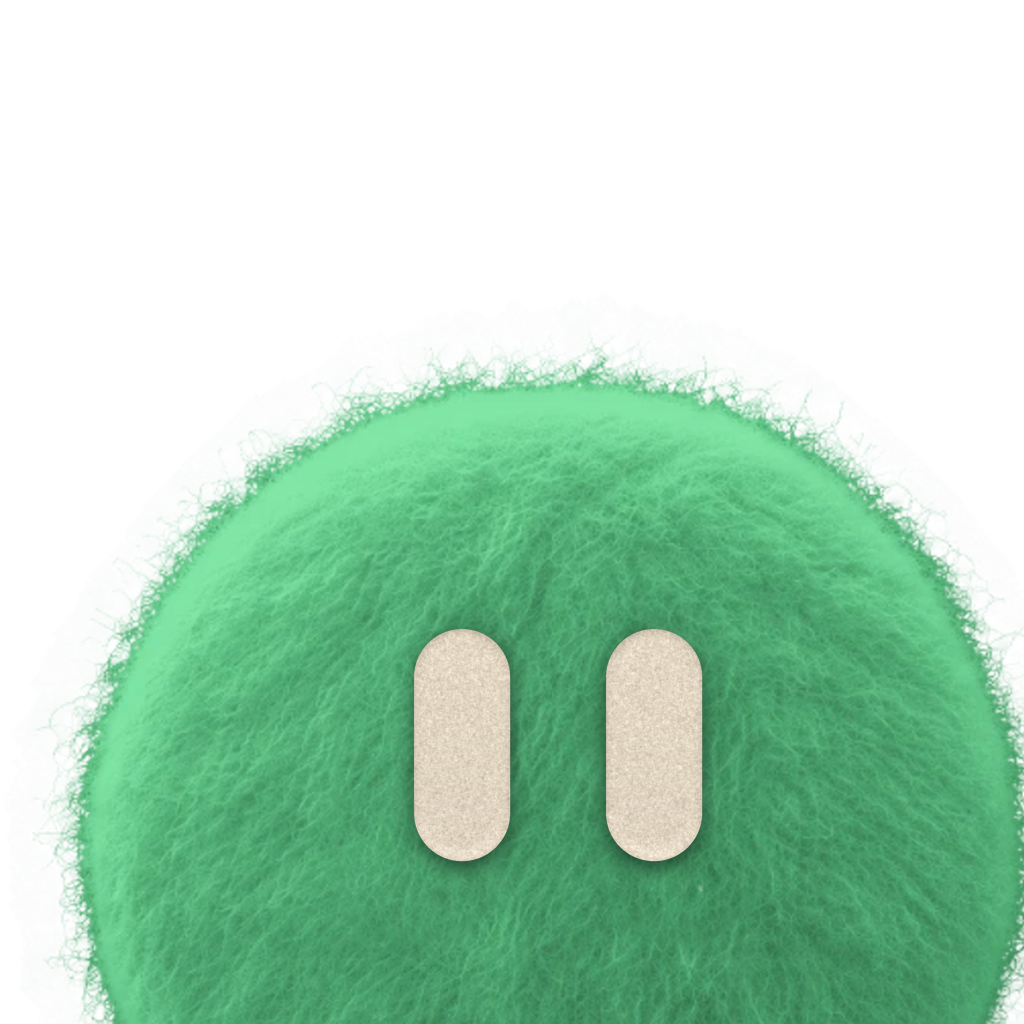
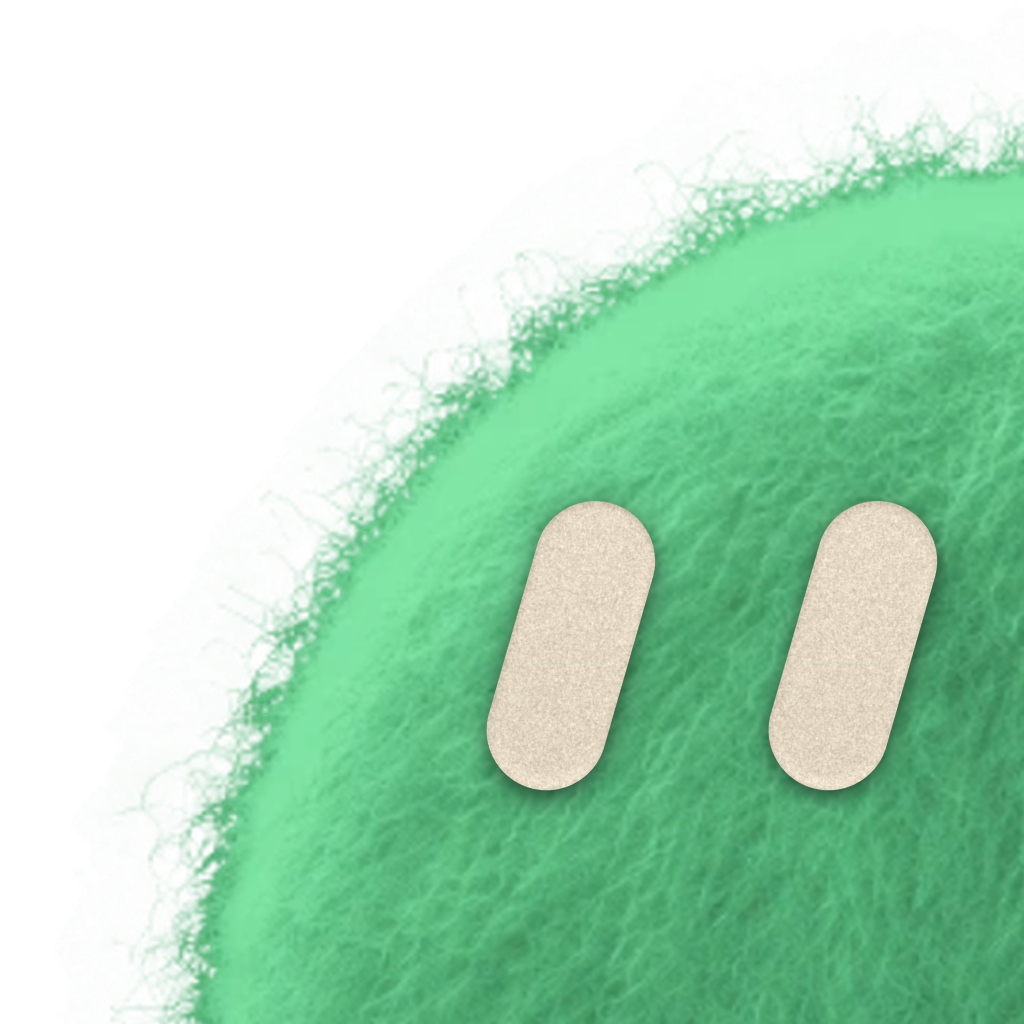
Draw the plush coming in from the corner, with eyes that lean with its head
The plush peeking up from the bottom still read as a plain blob. Coming in large from the bottom right
corner, it fills the tile and feels close; its two eyes sit level on its face and lean with the round of
its head, so it looks like a character turning toward the viewer.

The first screens show the same art. The live plush cannot: it always keeps its eyes in the middle of
its body, which here lies outside the tile, so the mascot is a picture of the icon's art.

diff --git a/app/src/components/AppMascot.tsx b/app/src/components/AppMascot.tsx
@@ -1,5 +1,4 @@
-import { ShapeArt, type AvatarMotion } from '@/components/BotAvatar';
-import type { BotActivity } from '@/lib/botActivity';
+import mascot from '@/assets/mascot.webp';
 import { cn } from '@/lib/utils';
 
 /**
@@ -10,28 +9,18 @@ const TILE = 'linear-gradient(180deg, #2a5a3c 0%, #12281a 100%)';
 export const MASCOT_COLOR = '#4fae74';
 
 /**
- * Yumak Bot itself, drawn as its icon: the green plush rising from the bottom of a dark green tile.
- * Its eyes live like a bot's, so the first screens greet with the same character the Dock shows.
+ * Yumak Bot itself, drawn as its icon: the green plush coming in from the bottom right corner of a dark
+ * green tile. A picture of the icon's own art rather than a live plush: the live one keeps its eyes in the
+ * middle of its body, which here lies outside the tile.
  */
-export function AppMascot({
-  activity,
-  motion = 'still',
-  className,
-}: {
-  activity?: BotActivity;
-  motion?: AvatarMotion;
-  className?: string;
-}) {
+export function AppMascot({ className }: { className?: string }) {
   return (
     <span
       className={cn('relative block size-full overflow-hidden rounded-[22%] shadow-sm', className)}
       style={{ background: TILE }}
       aria-hidden
     >
-      {/* Wider than the tile and set low, so the body fills it side to side and is cut by its bottom. */}
-      <span className="absolute top-[24%] left-[-7.5%] block h-[115%] w-[115%]">
-        <ShapeArt shape="blob" color={MASCOT_COLOR} activity={activity} motion={motion} seed="yumakbot" />
-      </span>
+      <img src={mascot} alt="" className="size-full" draggable={false} />
     </span>
   );
 }

diff --git a/app/src/features/onboarding/Onboarding.tsx b/app/src/features/onboarding/Onboarding.tsx
@@ -364,7 +364,7 @@ function LanguageStep({ onNext }: { onNext(): void }) {
       <div className="flex w-full max-w-sm flex-col items-center gap-8 text-center">
         <div className="flex flex-col items-center gap-3">
           <div className="size-16">
-            <AppMascot motion="always" />
+            <AppMascot />
           </div>
           <h1 className="text-2xl font-semibold tracking-tight">{t('onboarding.languageTitle')}</h1>
           <p className="text-sm text-muted-foreground">{t('onboarding.languageBody')}</p>

diff --git a/app/src/App.tsx b/app/src/App.tsx
@@ -257,7 +257,7 @@ function Workspace() {
           !isLoading && (
             <div className="flex flex-1 flex-col items-center justify-center gap-4 px-6 text-center">
               <div className="size-20">
-                <AppMascot motion="always" />
+                <AppMascot />
               </div>
               <h1 className="text-2xl font-semibold">{t('welcome.title')}</h1>
               <p className="max-w-sm text-sm text-muted-foreground">{t('welcome.body')}</p>
